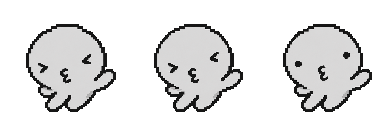
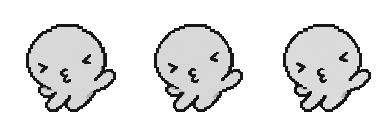
캐릭터: 스탑 모션 전체에서 감은 눈 유지

diff --git a/docs/구조/characters/NOTES.md b/docs/구조/characters/NOTES.md
@@ -19,3 +19,5 @@
 - 2026-10-16: 스탑 에셋을 도안의 두발 동시앞쏠림 자세로 제작. 왼발더앞·오른팔높음·왼눈낮고오른눈높은얼굴축을 반영한128셀3프레임,50/80/70ms=0.2초단발이다. stop-polished-128.png·이동연결GIF·원본·프롬프트포함JSON에리뷰용보관. 발앵커정렬로상체쏠림유지,알파여백·19GIF프레임검사. 기존게임미적용.
 
 - 2026-10-16: 스탑 각도를 사용자가 새로 첨부한 크롭 도안 기준으로 수정. 눈만 기울인 자세 대신 머리·몸 연결의 사선과 높이 든 오른팔·작게 숨은 왼팔을 함께 반영. 두발 동시 앞쏠림,128셀3프레임/0.2초 유지. source/stop-angle-reference.png 보관,PNG알파여백·19GIF프레임검사. 기존스탑리뷰파일갱신,게임미적용.
+
+- 2026-10-16: 스탑 눈을3프레임모두감은상태로유지. 기존1·2프레임PNG픽셀은그대로보존하고3프레임의뜬눈만감은눈으로교체. 사선자세·두발쏠림·50/80/70ms유지. PNG여백·기존2프레임동일성·19GIF프레임검사,게임미적용.
